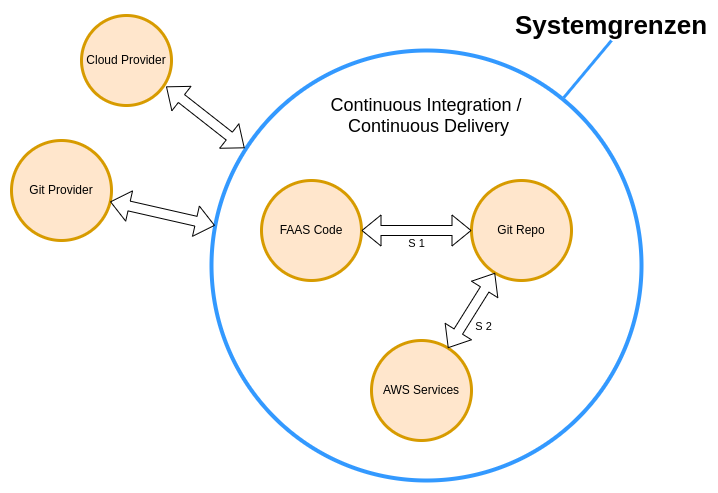
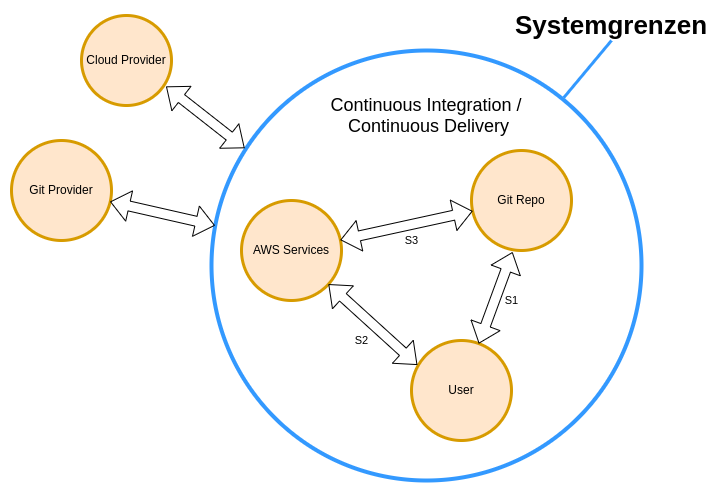
vervollständigung SEUSAG

Changed region(s): [[0.337, 0.3043, 0.7967, 0.9128]]

diff --git a/README.md b/README.md
@@ -49,16 +49,35 @@ Kategorien:
 ![Roadmap](picture/systemgrenzen.png)
 
 #### Einflussgrößen
+![Einflussgrössen](picture/Einflussgroessen.png)
 
 #### Unter- bzw. Teilsysteme 
+![Unter-Teilsystem](picture/Unter-Teilsystem.png)
 
 #### Schnittstellen
+| Schnittstelle | <div style="width:175px">Element</div> | Beschreibung |
+|---------------|---------|-------------|
+| S1 | User / Git Repo | Der Code für die AWS Lambda Function wird in einem Git Repo verwaltet. |
+| S2 | User / AWS Services | Das Deployment der AWS Ressourcen erfolgt via AWS CLI / AWS SDK. |
+| S3 | Git / AWS | Das Deployment der Lambda Function erfolgt auf dem Git Repo. |
 
 #### Analyse der Unter- bzw. Teilsysteme
 
+##### AWS Provider
+AWS wird verwendet, um eine FaaS zur Verfügung zu stellen, welche auf dem Service AWS Lambda aufgebaut wird.
+Das Deploment soll von Github angestossen werden.
+
+##### Github
+Github wird für die Code Verwaltung der Lambda Function eingesetzt und soll dem automatischen Deplomymentprozess in AWS anstossen.
+
+##### Local System
+Der User erstellt und modifiziert den Code für die Lambda Function von seinem lokalen System in einem Github Repo.
+Das Deployment der notwendigen AWS Komponenten soll soweit möglich via AWS CLI / SDK automatisiert werden. 
+
 #### Gemeinsamkeiten
-
-
+- Git
+- Python
+- AWS-Schnittstellen
 
 ### Ziele SMART
 - Die nötigen AWS-Ressourcen für die Lambda Function sollen automatisiert erstellt werden können (z.B. AWS-CLI / AWS-SDK).
